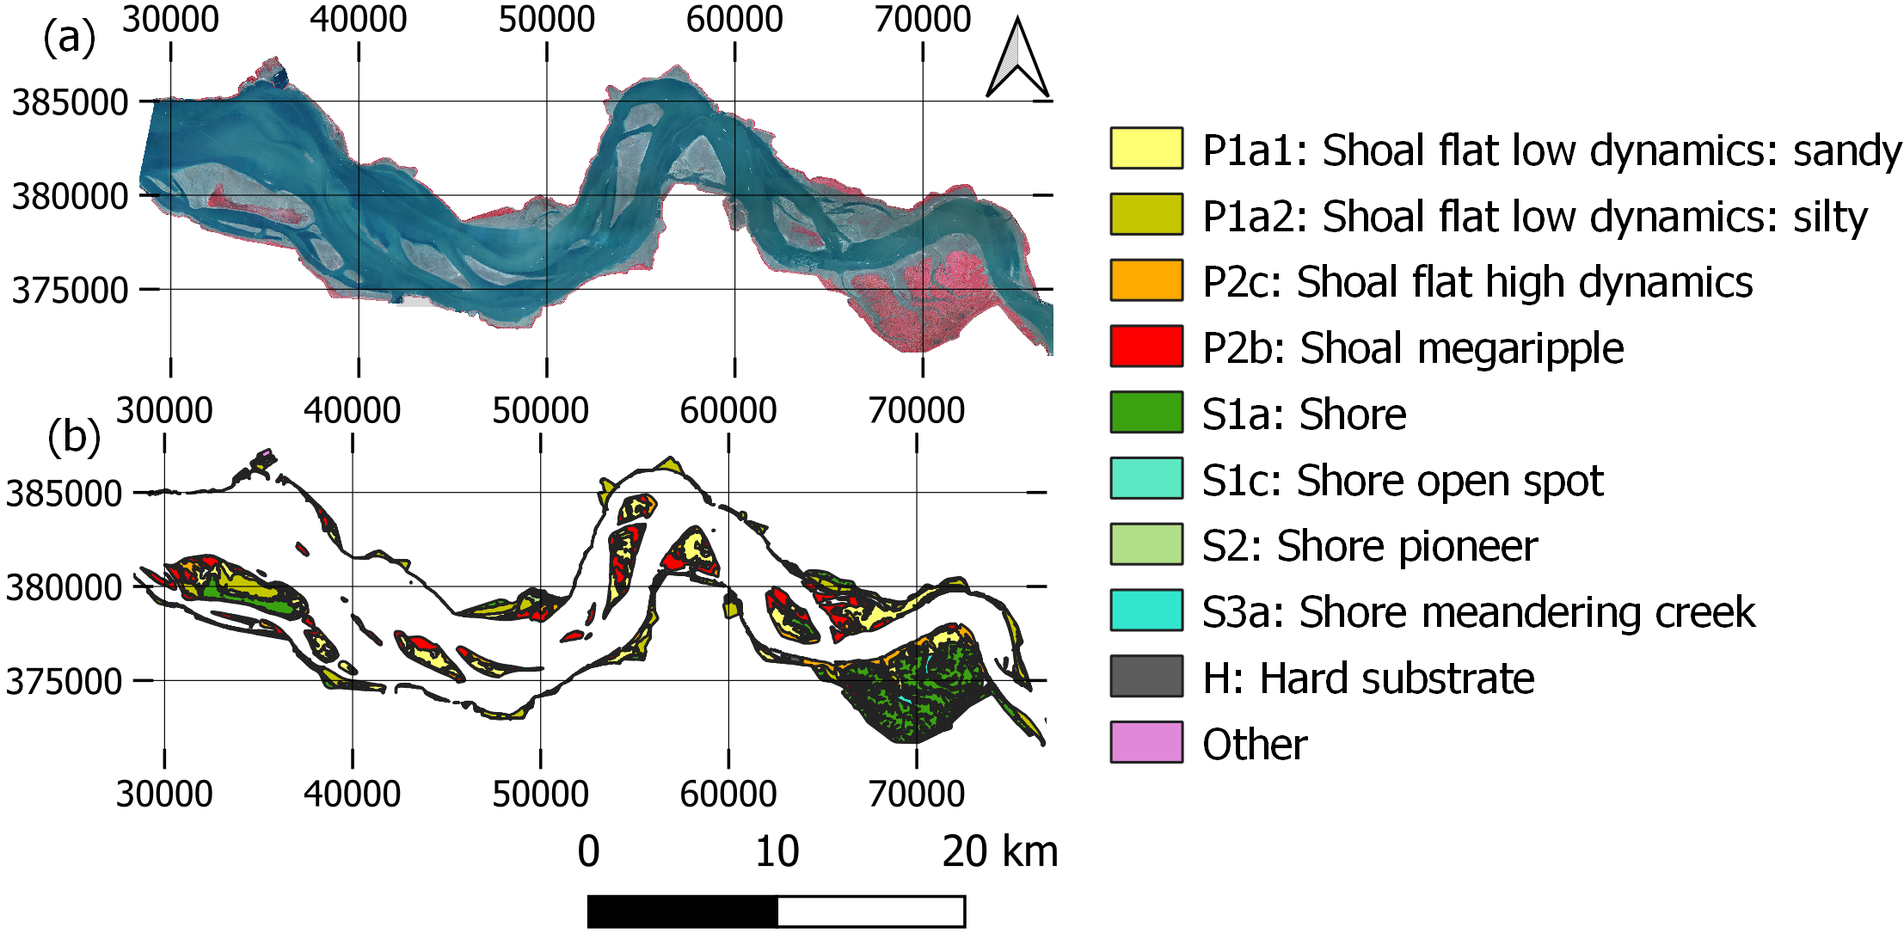
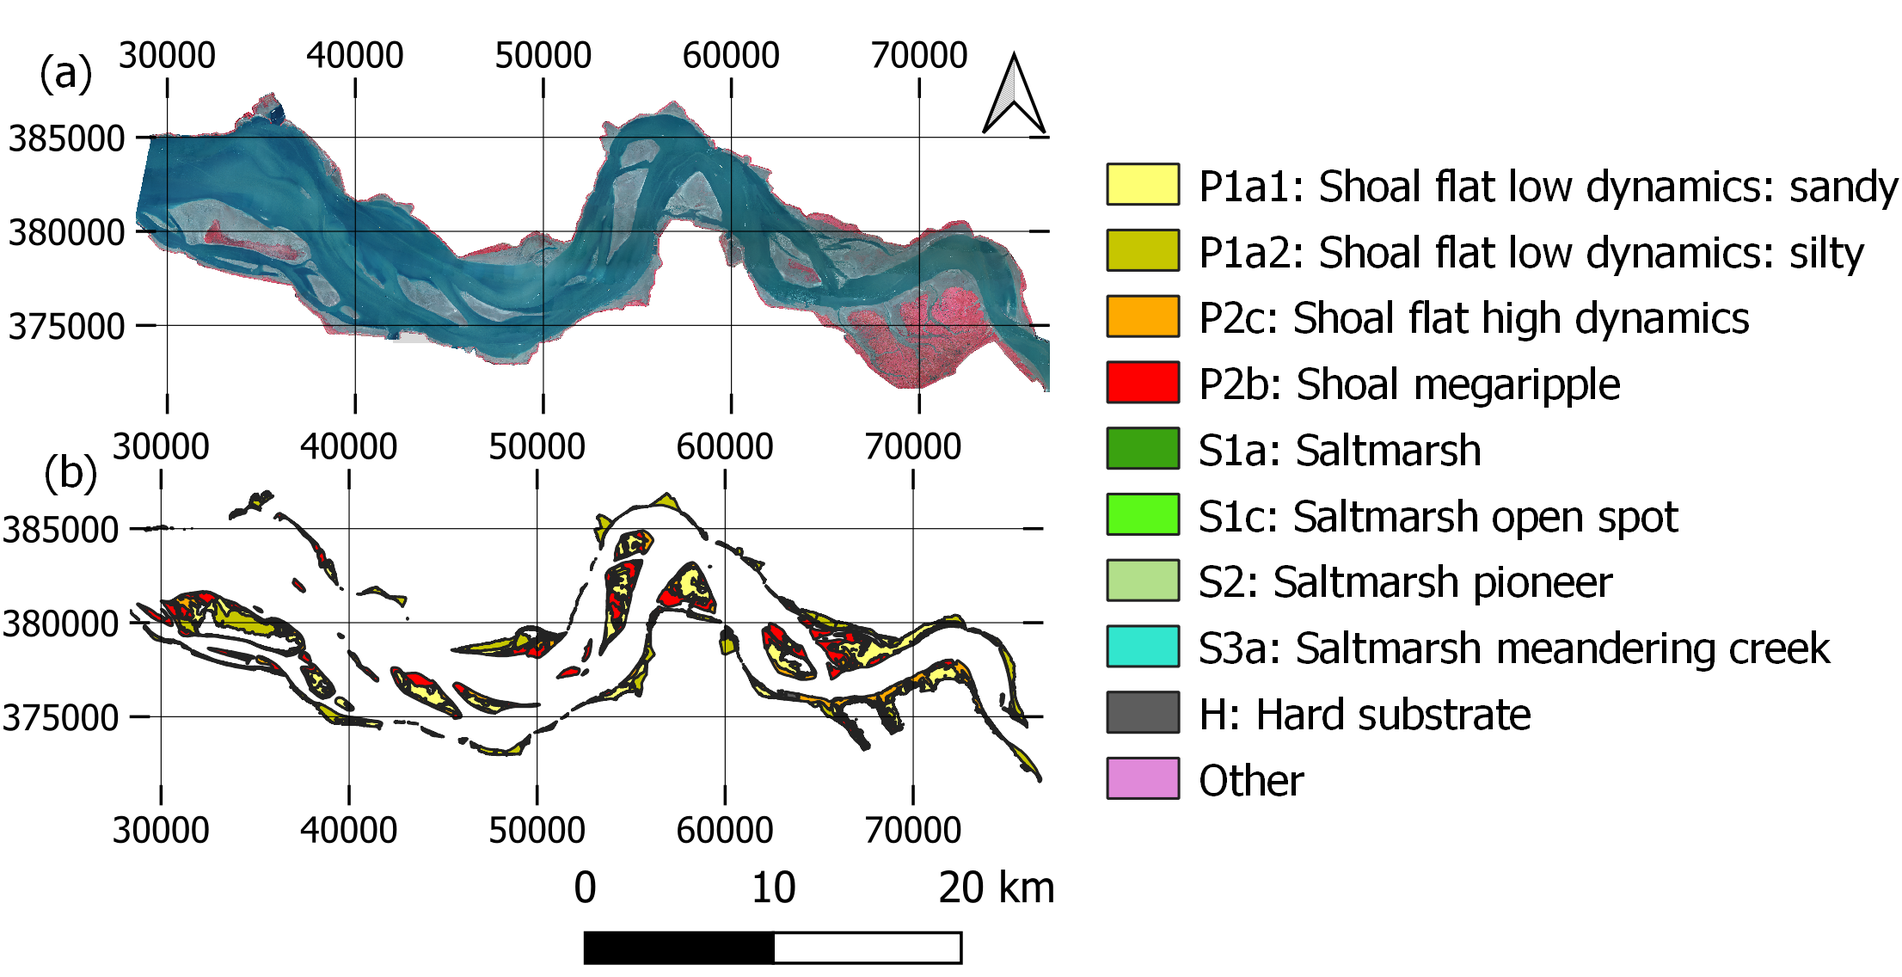
Updates from Overleaf

diff --git a/isprs.tex b/isprs.tex
@@ -62,8 +62,8 @@
 % thanks to Niclas Borlin 05-05-2016
 
 
-\commission{ZZ, }{YY} %This field is optional. If filled, XX and YY should be replaced by adequate numbers. See https://www2.isprs.org/commissions/
-\workinggroup{XX/YY} %This field is optional.
+\commission{III, }{YY} %This field is optional. If filled, XX and YY should be replaced by adequate numbers. See https://www2.isprs.org/commissions/
+\workinggroup{III/1} %This field is optional.
 \icwg{}   %This field is optional.
 
 
@@ -96,7 +96,7 @@ This study is both application- and method-driven. It provides us with an in-dep
  
 The study is mainly developed in Western Scheldt, the Netherlands (\cref{fig:ws_o}), where a detailed manually delineated expert classification map is available. 
 %We also conduct extensive evaluations in a study area with different geomorphological characters, Wadden Sea (\cref{fig:wadden}), to evaluate model generality. 
-\Cref{fig:ws_o} (b) shows our classification scheme. Importantly, we distinguish between the sandy and silty areas within the shoal flat low dynamics (\cref{fig:xgb}). We used aerial imagery with red, green, and NIR bands (0.25 m resolution), DEM from laser altimeters (2 m resolution), and derived indices. Imagery and DEM are acquired within the same year and season. Two methods are developed and compared in terms of the priors integrated, model interpretability, and the prediction accuracy and patterns. The first method firstly applies OBIA (Object-based Image Analysis) for segmentation and then uses an emsemble tree-based method, XGBoost \citep{Chen:2016:XST:2939672.2939785}, for classification, this method is referred to (OBIA-XGB) in this study. The challenges of this method lie in the identification of the optimal spatial unit of objects. The second method applies an encoder-decoder deep neural network architectures, U-net \citep{ronneberger2015u}, for end-to-end classification. 
+\Cref{fig:ws_o} (b) shows our classification scheme. Importantly, we distinguish between the sandy and silty areas within the shoal flat low dynamics. We used aerial imagery with red, green, and NIR bands (0.25 m resolution), DEM from laser altimeters (2 m resolution), and derived indices. Imagery and DEM are acquired within the same year and season. Two methods are developed and compared in terms of the priors integrated, model interpretability, and the prediction accuracy and patterns. The first method firstly applies OBIA (Object-based Image Analysis) for segmentation and then uses an emsemble tree-based method, XGBoost \citep{Chen:2016:XST:2939672.2939785}, for classification, this method is referred to (OBIA-XGB) in this study. The challenges of this method lie in the identification of the optimal spatial unit of objects. The second method applies an encoder-decoder deep neural network architectures, U-net \citep{ronneberger2015u}, for end-to-end classification. 
 
 % leave out for this paper because we havent reached them. 
 
@@ -113,12 +113,6 @@ The study is mainly developed in Western Scheldt, the Netherlands (\cref{fig:ws_
     \label{fig:ws_o}
 \end{figure}
 
-\begin{figure}[!h]
-    \centering
-    \includegraphics[scale=0.4]{figures/false_classificationvertical.png}
-    \caption{(a): the Wadden Sea study area, visualised in false color with the red, green, and Near-Infrared bands of aerial images of 0.25 m resolution. (b): the classification schemes. The map is made by manually fine-tuning the result of an OBIA model. The model was developed in the Western Scheldt and adapted to make it more general. }
-    \label{fig:wadden}
-\end{figure}
 
 \subsection{Preprocessing}
 
@@ -133,19 +127,19 @@ We focus on distinguishing between 5 classes and for convenience, we assign a co
 
 For the definition of the classes please refer to \cite{Douma2019}. We also refer to the P1a1, P1a2, P2b, and P2c classes as the "P" class and the H1 class "H" class. The other classes (i.e. classes that do not belong to the P and H1 classes) are removed. 
 
-We filtered out water by firstly using eCognition (Developer 9.4.0) to do segmentation, and then using the NDWI ($NDWI = \frac{green - NIR}{green + NIR}$) with a threshold of 0.44. Mega-ripples naturally consists of water. In this study, we also filtered out water in the P2b (mega-ripple) class to gain an initial understanding of the behaviour of machine learning models.   
+We filtered out water by firstly using eCognition (Developer 9.4.0) to do segmentation, and then using the NDWI ($NDWI = \frac{green - NIR}{green + NIR}$) with a threshold of 0.44. Mega-ripples naturally consist of water. In this study, we also filtered out water in the P2b (mega-ripple) class to gain an initial understanding of the behaviour of machine learning models.   
 
 \subsection{Sampling scheme}
 \label{cv}
 
-As the unit of method OBIA-XGB is OBIA segments and method U-net image pixels, we develop different sampling schemes for each of them. For method OBIA-XGB, it is necessary to develop a sampling scheme that accounts for the object size for the tree classifier. We evaluated two sampling schemes: 1) random sampling and 2) stratified sampling according to the size of OBIA segments. For 1), we used random under-sampling to sample the majority class(es), without replacement, to ensure the classes have balanced samples. For 2), we firstly divided the objects into 5 categories, cut at each 2nd, 4th, 6th, 8th, 10th percentiles of the object size of the minority class (i.e. class with the least number of objects). These percentiles are chosen so that the number of objects in these categories are similar. Within each category, 70\% of the objects form the training set and the rest forms the test set. Then within the training set of each category, random under-sampling is applied. 
+As the unit of method OBIA-XGB is OBIA segments and method U-net image pixels, we develop different sampling schemes for each of them. For method OBIA-XGB, it is necessary to develop a sampling scheme that accounts for the object size for the tree classifier. We evaluated two sampling schemes: 1) random sampling and 2) stratified sampling according to the size of OBIA segments. For 1), we used random under-sampling to sample the majority class(es), without replacement, to ensure the classes have balanced samples. For 2), we firstly divided the objects into 5 categories, cut at each 20th, 40th, 60th, 80th, 100th percentiles of the object size of the minority class (i.e. class with the least number of objects). These percentiles are used so that the number of objects in these categories are similar. Within each category, 70\% of the objects form the training set and the rest forms the test set. Then within the training set of each category, random under-sampling is applied. 
 
-For OBIA-XGB, we selected three tiles that are abundantly covered by the focused classes (i.e. P and H1 classes). For the method based on U-net, we selected 80 500 pixels $\times$ 500 pixels tiles for training (42 tiles) and validation (18 tiles). Three 4000 $\times$ 4000 tiles are used for testing (\cref{fig:tt}). 
+For OBIA-XGB, we selected three tiles that are abundantly covered by the focused classes (i.e. P and H1 classes) for identifying the optimum spatial unit and model training. For the method based on U-net, we selected 80 500 pixels $\times$ 500 pixels tiles for training (42 tiles) and validation (18 tiles). Three 4000 $\times$ 4000 tiles are used for testing both of the methods and calculating the accuracy metrics. The train-test splitting is shown in \cref{fig:tt}. 
 
 \begin{figure}
     \centering
     \includegraphics[scale = 0.3]{figures/train_test_tileOverview.png}
-    \caption{Training, validation, and test areas used in Western Scheldt.}
+    \caption{Training, validation, and test areas used by the machine learning methods, Western Scheldt.}
     \label{fig:tt}
 \end{figure}
 
@@ -153,7 +147,7 @@ For OBIA-XGB, we selected three tiles that are abundantly covered by the focused
 
 We focus on the precision (True Positives)/(True Positives + False Positives) and recall (True Positives)/(True Positives + True Negatives) as indicators of the prediction accuracy.  
 %and additionally IoU (Intersect over Union) for (B). 
-For method A, the precision and recall are weighted by the area size of each object for the final recall and precision. In addition, we present the precision and recall based on objects (i.e. not weighted by the area size). This serves to inspect how the objects with various sizes are identified.  
+For OBIA-XGB, the precision and recall are weighted by the area size of each object for the final recall and precision. In addition, we present the precision and recall based on objects (i.e. not weighted by the area size). This serves to inspect how the objects with various sizes are identified.  
 
 \section{Experiments}
 
@@ -161,7 +155,9 @@ For method A, the precision and recall are weighted by the area size of each obj
 
 The inputs of the OBIA-XGB method are aerial imagery (with NIR, red, green bands) and DEM, as well as slope \citep{zevenbergen1987quantitative}, NDVI, and aspect (\citep{horn1981hill}) derived from eCognition. 
 
-We firstly use eCognition for object segmentation at various spatial units. Then, we combine segmentation levels to get sub-object describing brighter and darker sub-objects features. We export the objects with in total 48 features describing the spectral and texture (using Harralick's grey level co-ocurrence matrices) features of objects and sub-objects.
+We firstly use eCognition for object segmentation at various spatial units. Then, we combine segmentation levels to get sub-objects and related features. 
+%describing brighter and darker sub-objects features. 
+We export the objects with in total 48 features describing the spectral and texture (using Harralick's grey level co-ocurrence matrices) features of objects and sub-objects.
 %Lars: add details, which features and sub-features you exported. 
 
 Then, to determine the optimal spatial unit for each class, we each time regroup the five classes into the "target class" and the "other class" and iterate over all the five classes. The XGBoost is applied to classify the OBIA calculated object features and select the best spatial unit for each class based on the prediction accuracy. 
@@ -172,7 +168,7 @@ The hyperparameters we tuned for XGBoost are learning rate, maximun tree-depth, 
 
 \subsection{Method-based on U-net}
 
-The input for the U-net is the aerial imagery, DEM, and derived slope \citep{horn1981hill}, NDVI and a Brightness layers. The slope was calculated in QGIS3.18 using the same Horn's formula \citep{horn1981hill} as in eCognition, and is expressed in degrees. The NDVI and brightness are calculated in Python. The Brightness is defined as $Brightness =  (NIR+red+green)/3$.
+The input for the U-net is the aerial imagery, DEM, and derived slope \citep{horn1981hill}, NDVI, and  Brightness layers. The slope was calculated in QGIS3.18 using the same Horn's formula \citep{horn1981hill} as in eCognition, and is expressed in degrees. The NDVI and brightness are calculated in Python. The Brightness is defined as $Brightness =  (NIR+red+green)/3$.
  
 The loss functions we tested are categorical cross-entropy loss, IoU loss \citep{van2019deep}, FocalTverskyLoss \citep{abraham2019novel}, and Lovasz Hinge Loss \citep{berman2018lovasz}. In the end, we chose to use the IoU loss as it provides the best cross-validation results with the training set. The hyperparameters we tuned are learning rate, batch size, and image size. The image size tested are from $2^5$ (64) to $2^9$ (512) and is optimised at 128. The batch size tested are from 8 to 32 and is optimised at 16. The learning rate are tested with various scheduling, ranging from 0.0001 to 0.01 at various epochs. 
  
@@ -183,7 +179,7 @@ The loss functions we tested are categorical cross-entropy loss, IoU loss \citep
 \subsection{Spatial unit optimisation for OBIA-XGB}
 \label{sec:suo}
 
- \Cref{fig:overview} shows the precision and recall of different sampling schemes and cross-validation methods for the binary classification in the Western Scheldt study area. The stratified sampling greatly improves the prediction accuracy, comparing the cross validation between applying our stratified sampling (SS) scheme to random sampling of the objects (object).
+ \Cref{fig:overview} shows the precision and recall of different sampling schemes and cross-validation methods for the binary classification in the Western Scheldt study area. The stratified sampling greatly improves the prediction accuracy, comparing the cross validation between applying our Stratified Sampling (SS) scheme to random sampling of the objects (object).
  
   \begin{figure}[!h]
     \centering
@@ -198,48 +194,49 @@ The loss functions we tested are categorical cross-entropy loss, IoU loss \citep
 
 \subsection{Prediction accuracy}
 \subsubsection{Method OBIA-XGB}
-The multi-class classification results for the method OBIA-XGB are shown in \cref{xgb_ss,xgb_ssac,fig:spxgb}. SSAC is used to indicate the performance and SS for indicating how well the smaller objects are classified. According to SSAC, the megaripple class obtained the highest precision, indicating the method OBIA-XGB is already promising in distinguishing it from other P classes and the H1 class. The sandy and silty low dynamic flats are also separated well. 
+The accuracy metrics of the OBIA-XGB are shown in \cref{xgb_ss,xgb_ssac}. SSAC is used to indicate the performance and SS for indicating how well the smaller objects are classified. According to SSAC, the megaripple class obtained the highest precision, indicating the method OBIA-XGB is already promising in distinguishing it from other P classes and the H1 class. The sandy and silty low dynamic flats are not well separated. 
 
-Comparing \cref{xgb_ss,xgb_ssac}, it is observed that small objects are classified best in the P2b and H1 classes but are less satisfying in P1a1, P1a2, and P2c. \Cref{fig:spxgb} shows that most of the objects are correctly classified, mis-classification mostly occur as classifying P1a1, P1a2 and P2b as H1, especially along some streams outlets or close to water. 
+Comparing \cref{xgb_ss,xgb_ssac}, it is observed that small objects better in the P2b and H1 classes but are less satisfying in other classes. From the spatial prediction maps, We can observe that mis-classification mostly occur as classifying P1a1, P1a2 and P2b as H1, especially along some channel outlets or close to water.
+
 %\subsection{Variable importance}
 %The top-5 most important characteristics (calculated from XGBoost gain) describe spectral properties, the 7th on the texture within the object, and 10th is based on the sub-objects.
-
 \begin{table}[]
     \centering
 \begin{tabular}{lrrrrr}
 \toprule
-{} &  P1a1 &  P1a2 &  P2b &  P2c &   H1 \\
+{} &  P1a1 &  P1a2 &  P2b &  P2c &  H1 \\
 \midrule
-P1a1             &  31.7 &   3.1 &  0.3 &  3.7 &  0.5 \\
-P1a2             &   3.2 &  17.6 &  0.4 &  1.8 &  0.9 \\
-P2b              &   1.0 &   0.6 & 12.6 &  3.1 &  0.2 \\
-P2c              &   1.9 &   0.9 &  1.4 & 11.8 &  0.4 \\
-H1               &   0.1 &   0.0 &  0.0 &  0.1 &  2.7 \\
-\midrule
-precision        &  83.8 &  79.5 & 85.5 & 57.6 & 57.2 \\
-recall           &  80.6 &  73.7 & 72.1 & 72.2 & 93.1 \\
-overall accuracy &  76.5 &       &      &      &      \\
+P1a1             &   7.0 &   4.2 &  1.2 &  9.1 & 0.1 \\
+P1a2             &   8.0 &   3.3 &  4.9 &  2.6 & 1.1 \\
+P2b              &   5.2 &   2.0 & 24.2 &  8.0 & 0.8 \\
+P2c              &   1.4 &   3.9 &  1.0 & 11.5 & 0.1 \\
+H1               &   0.0 &   0.0 &  0.1 &  0.1 & 0.0 \\
+precision        &  32.4 &  24.4 & 77.2 & 36.8 & 1.3 \\
+recall           &  32.6 &  16.5 & 60.2 & 64.1 & 8.9 \\
+overall accuracy &  46.1 &       &      &      &     \\
 \bottomrule
- \end{tabular}
-\caption{Accuracy assessed with the sampling and validation scheme SSAC. Confusion matrix normalised by the entire area. Precision, recall, and overall accuracy (\%) are calculated using area-weighted accuracy assessment. }
+\end{tabular}
+
+\caption{Accuracy assessed with the sampling and validation scheme SSAC, on test tiles. Confusion matrix is normalised by the entire area. Precision, recall, and overall accuracy (\%) are calculated using area-weighted accuracy assessment. }
+
     \label{xgb_ssac}
 \end{table}
 
 \begin{table}[]
     \centering
+    
 \begin{tabular}{lrrrrr}
 \toprule
 {} &  P1a1 &  P1a2 &  P2b &  P2c &   H1 \\
 \midrule
-P1a1             &  24.9 &   2.4 &  0.4 &  2.9 &  0.5 \\
-P1a2             &   2.3 &  15.5 &  0.8 &  1.7 &  1.1 \\
-P2b              &   1.1 &   1.2 & 22.2 &  3.6 &  0.4 \\
-P2c              &   1.3 &   1.0 &  2.0 & 10.0 &  0.6 \\
-H1               &   0.1 &   0.0 &  0.0 &  0.1 &  3.7 \\
-\midrule
-precision        &  84.0 &  77.0 & 87.3 & 54.4 & 58.5 \\
-recall           &  80.0 &  72.5 & 77.8 & 67.2 & 92.8 \\
-overall accuracy &  76.4 &       &      &      &      \\
+P1a1             &   4.2 &   4.4 &  1.4 &  5.4 &  0.1 \\
+P1a2             &   5.4 &   2.7 &  9.2 &  2.3 &  1.6 \\
+P2b              &   3.1 &   2.6 & 36.6 &  6.4 &  1.6 \\
+P2c              &   0.8 &   2.9 &  1.3 &  7.3 &  0.2 \\
+H1               &   0.0 &   0.0 &  0.2 &  0.2 &  0.1 \\
+precision        &  30.7 &  21.6 & 75.1 & 33.8 &  1.9 \\
+recall           &  26.9 &  12.8 & 72.7 & 58.5 & 14.0 \\
+overall accuracy &  50.8 &       &      &      &      \\
 \bottomrule
 \end{tabular}
     \caption{Accuracy assessed with the sampling and validation scheme SS. Confusion matrix normalised by the number of total objects. Precision, recall, and overall accuracy (\%) are calculated using area-weighted accuracy assessment.}
@@ -249,14 +246,14 @@ overall accuracy &  76.4 &       &      &      &      \\
 
  \begin{figure}[!h]
     \centering
-    \includegraphics[width=\linewidth]{figures/Spatial_50_15_all_classes_xgb.png}
-    \caption{Maps of method OBIA-XGB. A: ground truth, B: predicted labels, C: Predicted probability.}
+    \includegraphics[width=\linewidth]{figures/prediction_westerscheldt_merged.png}
+    \caption{Maps of method OBIA-XGB. Figure (b) is a zoom-in of the figure (a).}
     \label{fig:spxgb}
 \end{figure}
 
 \subsubsection{Method based on U-net}
 
-The U-net segmentation obtained a lower accuracy compared to the method OBIA-XGB (\cref{xgb_ssac,deepconf}). P2b again obtained the best result relative the the other classes. The model failed completely to predict the H1 class.  
+The U-net segmentation obtained a considerably lower accuracy for P2b and P2c compared to the method OBIA-XGB (\cref{xgb_ssac,deepconf}) but obtained a much better result for P1a1. P2b again obtained the best result compared to the other classes. The model failed completely to predict the H1 class.  
 
  \begin{table}
   \centering
@@ -283,14 +280,11 @@ Confusion matrix normalised by the number of total objects, precision, recall, a
 
 \begin{figure}
     \centering
-    \includegraphics[scale=0.2]{figures/prediction_merged.png}
+    \includegraphics[scale=0.2]{figures/prediction_westerscheldt_merged.png}
     \caption{Example of predictions from the best U-net model for Western Scheldt. A, Upper row: the prediction and the validation (i.e. reference) maps. Bottom row: the probability of the predictions and the false-color image. B, a closer look at the predictions. }
     \label{fig:deepsp}
 \end{figure}
 
-\subsubsection{Comparison between the methods OBIA-XGB and U-net}
-
-To compare with the U-net based method, we apply the XGB model to the three tiles that are used for testing in deep learning (\cref{fig:tt}, note that these three tiles were not used in the XGB training). Comparing between \cref{tab:xgb_unettile} and \cref{deepconf}, we can observe that the OBIA-XGB method obtained a much higher accuracy. 
 
 \begin{table}[]
     \centering
@@ -315,16 +309,14 @@ overall accuracy &  55.9 &       &      &      &      \\
  
 \section{Conclusion}
 
-In this study, we compared machine learning methods that are based on OBIA-derived features vs. end-to-end representative learning, for inter-tidal area classification, with respectively XGBoost and U-net. The method that applies XGBoost to OBIA-derived features (OBIA-XGB) outperforms the U-net based methods. The OBIA-XGB obtained satisfying results in separating between the inter-tidal low and high dynamic shoals, as well as the natural hard substrates, which are sometimes more difficult to distinct manually or basing on the rule-based OBIA methods alone. Therefore, our study indicates that machine learning methods can help to improve the rule-based OBIA method. Future studies aim at further improvement of deep learning-based method.
+In this study, we compared machine learning methods that are based on OBIA-derived features vs. end-to-end representative learning, for inter-tidal area classification, with respectively XGBoost and U-net. The method that applies XGBoost to OBIA-derived features (OBIA-XGB) outperforms the U-net based methods in P2b and P2c, but the U-net method can better separate between P1a1 and P1a2. The OBIA-XGB obtained satisfying results in separating between the P2b and other classes, which is sometimes more difficult to distinct manually or basing on the rule-based OBIA methods alone. Therefore, our study indicates that machine learning methods can help to improve the rule-based OBIA method. Future studies aim at further improvement of deep learning-based method.
 
 %by using channel attentions, multi-scale approaches, and generative modeling. We also aim at a integration of OBIA and deep learning-based method to combine prior knowledge into machine learning techniques. Our two geomorphologically distinct study areas provide us unique opportunities to gain an in-depth insight of model generality.
 
 
 \section{Acknowledgement}
- 
 
-
-
+This study was performed at Utrecht University with a contribution from the project 'Optimalisatie productie GMK met behulp van OBIA' financed by Rijkswaterstaat (Contract nummer: 31160225). 
 
 
 %\bibliographystyle{plain}

diff --git a/conf_matrix_xgb_SS.tex b/conf_matrix_xgb_SS.tex
@@ -1,0 +1,14 @@
+\begin{tabular}{lrrrrr}
+\toprule
+{} &  P1a1 &  P1a2 &  P2b &  P2c &   H1 \\
+\midrule
+P1a1             &   4.2 &   4.4 &  1.4 &  5.4 &  0.1 \\
+P1a2             &   5.4 &   2.7 &  9.2 &  2.3 &  1.6 \\
+P2b              &   3.1 &   2.6 & 36.6 &  6.4 &  1.6 \\
+P2c              &   0.8 &   2.9 &  1.3 &  7.3 &  0.2 \\
+H1               &   0.0 &   0.0 &  0.2 &  0.2 &  0.1 \\
+precision        &  30.7 &  21.6 & 75.1 & 33.8 &  1.9 \\
+recall           &  26.9 &  12.8 & 72.7 & 58.5 & 14.0 \\
+overall accuracy &  50.8 &       &      &      &      \\
+\bottomrule
+\end{tabular}

diff --git a/conf_matrix_xgb_SSAC.tex b/conf_matrix_xgb_SSAC.tex
@@ -1,0 +1,14 @@
+\begin{tabular}{lrrrrr}
+\toprule
+{} &  P1a1 &  P1a2 &  P2b &  P2c &  H1 \\
+\midrule
+P1a1             &   7.0 &   4.2 &  1.2 &  9.1 & 0.1 \\
+P1a2             &   8.0 &   3.3 &  4.9 &  2.6 & 1.1 \\
+P2b              &   5.2 &   2.0 & 24.2 &  8.0 & 0.8 \\
+P2c              &   1.4 &   3.9 &  1.0 & 11.5 & 0.1 \\
+H1               &   0.0 &   0.0 &  0.1 &  0.1 & 0.0 \\
+precision        &  32.4 &  24.4 & 77.2 & 36.8 & 1.3 \\
+recall           &  32.6 &  16.5 & 60.2 & 64.1 & 8.9 \\
+overall accuracy &  46.1 &       &      &      &     \\
+\bottomrule
+\end{tabular}
